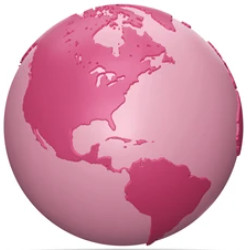
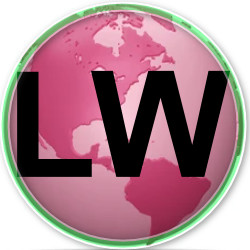
pestañas

diff --git a/index.html b/index.html
@@ -3,14 +3,27 @@
 <head>
     <meta charset="UTF-16">     
     <meta http-equiv="X-UA-Compatible" content="IE=edge">
-    <link rel="shortcut icon" href="imagenes/MundoLesi.jpg" type="image/x-icon">
     <meta name="viewport" content="width=device-width, initial-scale=1.0">
+    <link rel="shortcut icon" href="imagenes/LesiW.jpg" type="image/x-icon">  
+    <link rel="stylesheet" href="css/style.css"> 
+    <link rel="preload" href="css/style.css" as="style"> 
     <title>Lesi World</title>
-    <link rel="stylesheet" href="css/style.css">
+   
+   <!--<title>Lesi World Decoración de eventos a tu medida</title>-->
 </head>
 <body>
-    <h1>Lesi World</h1>
+    <header>
+        <h1>Lesi World</h1>
+    </header>
+    <nav>
+        <a href="catalogo.html">Inicio</a>
+        <a href="contacto.html">Contacto</a>
+
+    </nav>
     <p>Lorem ipsum dolor sit amet consectetur adipisicing elit. Excepturi soluta tempore ab deleniti vero, ullam porro, veritatis molestias magni iure illo corporis dolor laborum quo, exercitationem blanditiis? Temporibus, minima velit.</p>
     <script src="js/script.js"></script>
+    <footer>
+        <p>Todos los derechos reservados. Lesi World Decoración de eventos a tu medida </p>
+    </footer>
 </body>
 </html>

diff --git a/catalogo.html b/catalogo.html
@@ -1,0 +1,15 @@
+<!DOCTYPE html>
+<html lang="es">
+<head>
+    <meta charset="UTF-16">     
+    <meta http-equiv="X-UA-Compatible" content="IE=edge">
+    <meta name="viewport" content="width=device-width, initial-scale=1.0">
+    <link rel="shortcut icon" href="imagenes/LesiW.jpg" type="image/x-icon">  
+    <link rel="stylesheet" href="css/style.css"> 
+    <link rel="preload" href="css/style.css" as="style"> 
+    <title>Lesi World</title>
+</head>
+<body>
+    
+</body>
+</html>

diff --git a/contacto.html b/contacto.html
@@ -1,0 +1,15 @@
+<!DOCTYPE html>
+<html lang="es">
+<head>
+    <meta charset="UTF-16">     
+    <meta http-equiv="X-UA-Compatible" content="IE=edge">
+    <meta name="viewport" content="width=device-width, initial-scale=1.0">
+    <link rel="shortcut icon" href="imagenes/LesiW.jpg" type="image/x-icon">  
+    <link rel="stylesheet" href="css/style.css"> 
+    <link rel="preload" href="css/style.css" as="style"> 
+    <title>Lesi World</title>
+</head>
+<body>
+    
+</body>
+</html>

diff --git a/css/style.css b/css/style.css
@@ -1,4 +1,15 @@
+html{
+    font-size: 62.5%;
+}
+body{
+    font-size: 16px;
+}
 h1{
+    text-align: center;
+    font-size: 3.8rem;
     color: darkorange;
+}
+span{
+    font-size: 2rem;
 }
 
